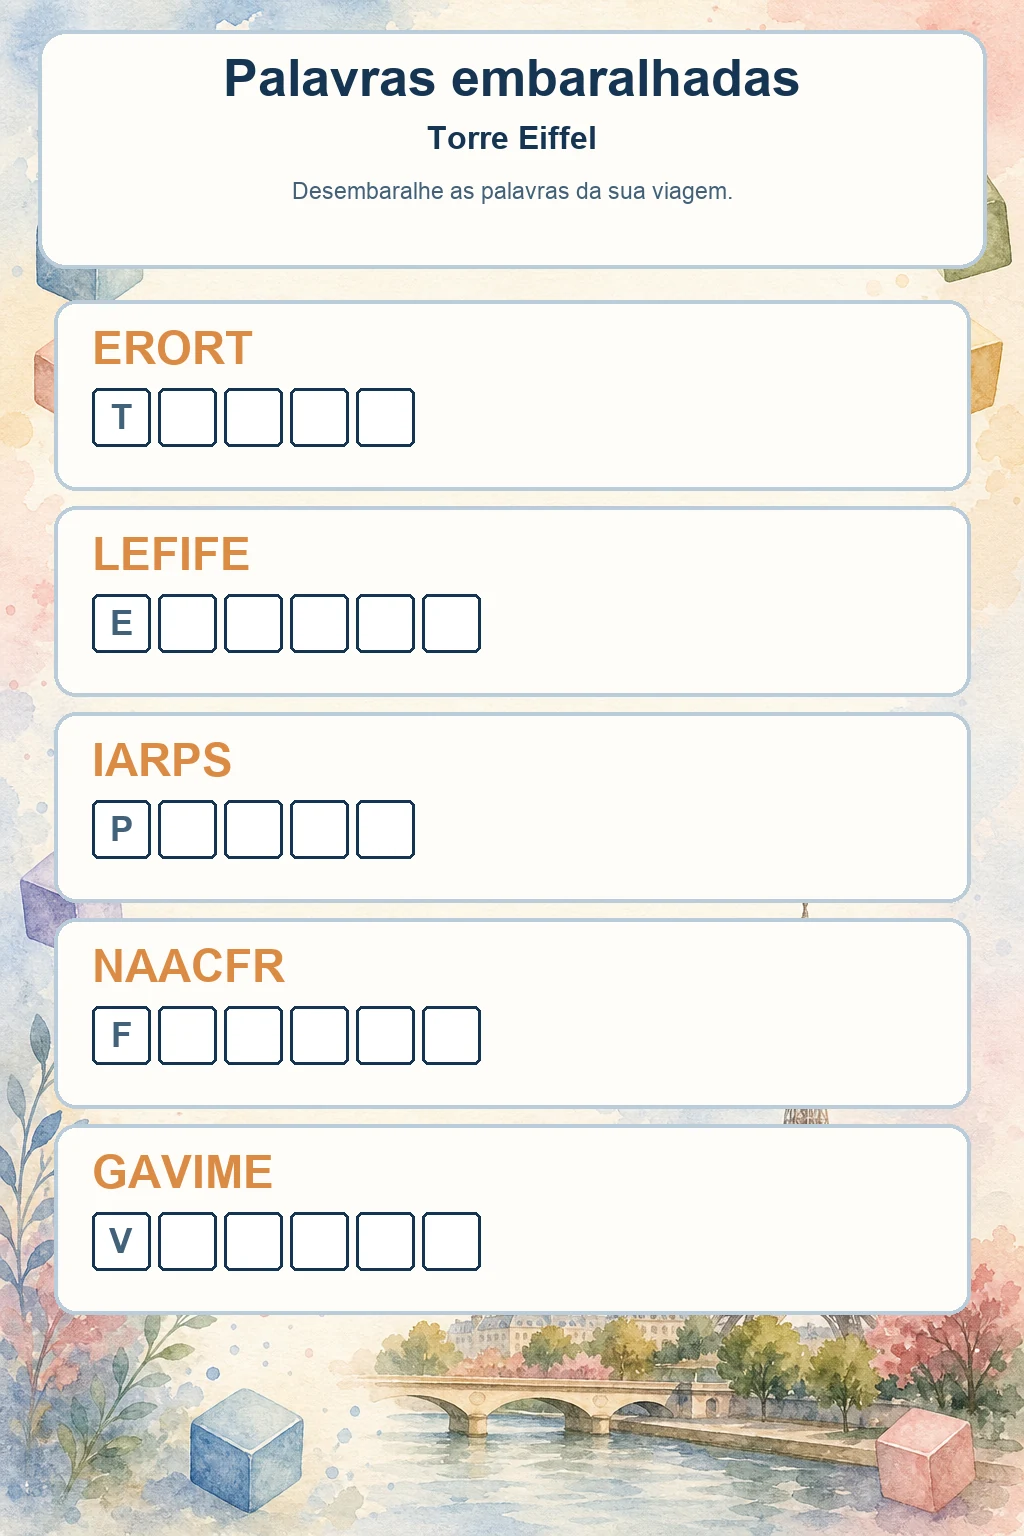
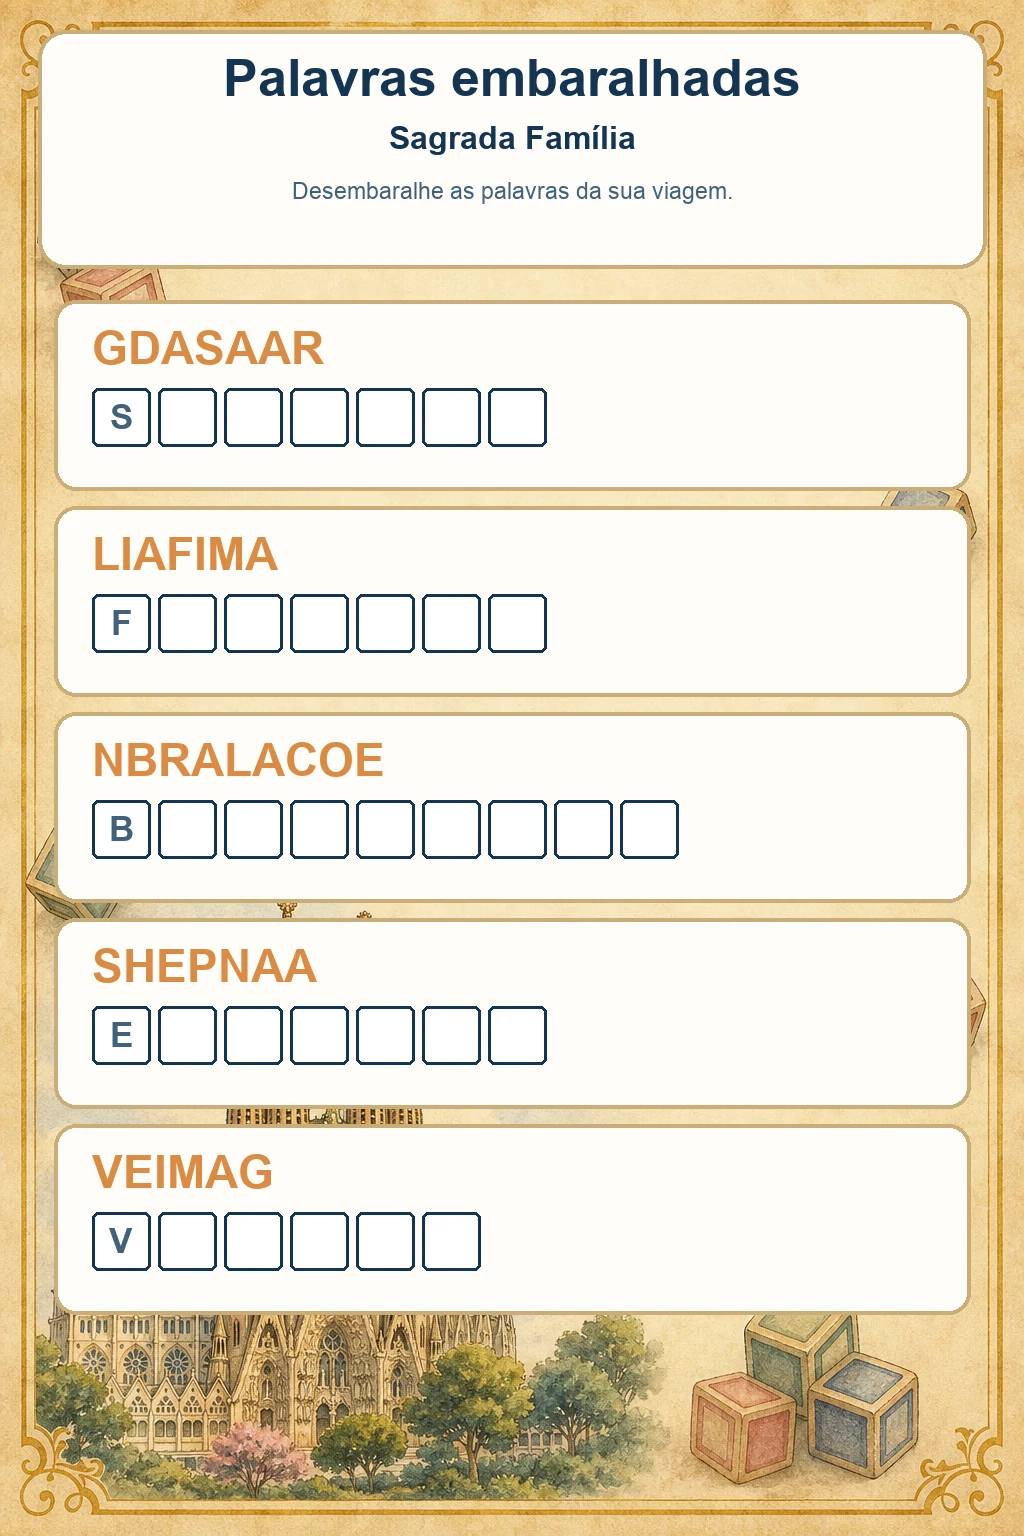
Give every page one house style and eighteen different landmarks
Every card showed the Eiffel Tower. Opening eighteen previews and seeing
one place is the opposite of what the catalogue needs to say, which is
that each page adapts to the stop it is printed for. The catalogue now
runs from the Colosseum to Machu Picchu, the Alhambra, Neuschwanstein,
Golden Gate, Taj Mahal, Mount Fuji, the Great Wall, Amsterdam and Senso-ji
— eighteen landmarks across fourteen countries.

They also share one look now, taken from the printed guide that inspired
the product: aged cream parchment, an ornate golden-ochre border with
corner scrollwork, a faint postmark and a dashed flight path, and vintage
storybook watercolour with ink linework. The panels followed, trading
blue-grey rules for ochre ones. Before this, each activity carried its own
invented background and the book read as a collage.

Spot the difference gets the same palette without the frame. Its page
crops the art into two panels, so the border was thrown away anyway — and
the ornament was drowning the edit: four attempts on the framed version
produced one usable difference, then zero, zero, zero. Plain, it converged
on the second try with three.

The word search answer key is a translucent red band instead of a solid
strike, so the letters stay readable underneath — the point of an answer
key is checking a word, which a line through it prevents.

Two defects surfaced while reviewing the new art. Multi-word place names
reached the puzzles glued together, so a child was asked to find
[…]

diff --git a/frontend_atual/apps/web/src/utils/landmark-activities.test.js b/frontend_atual/apps/web/src/utils/landmark-activities.test.js
@@ -153,3 +153,27 @@ test('every activity offers a longer description for the expanded view', () => {
     assert.ok(activity.about.length > activity.description.length, activity.type);
   }
 });
+
+test('the catalogue shows many landmarks, not the same one eighteen times', () => {
+  // Abrir dezoito cards e ver a mesma Torre Eiffel não mostra que a página se
+  // adapta a cada parada — mostra o contrário.
+  const sources = LANDMARK_ACTIVITY_OPTIONS.flatMap((activity) =>
+    activityGallery(activity).map((item) => item.src),
+  );
+
+  assert.equal(new Set(sources).size, sources.length);
+  assert.ok(sources.every((src) => src.startsWith('/activity-examples/')));
+  assert.ok(sources.every((src) => src.endsWith('.webp')));
+});
+
+test('spot the difference shows both scenes whole, not only the composed page', () => {
+  const activity = LANDMARK_ACTIVITY_OPTIONS.find(
+    (option) => option.type === 'spot_the_difference',
+  );
+  const gallery = activityGallery(activity);
+
+  // Comparar dois desenhos exige ver os dois; a página montada os reduz.
+  assert.equal(gallery.length, 3);
+  assert.match(gallery[1].src, /scene-1/);
+  assert.match(gallery[2].src, /scene-2/);
+});

diff --git a/frontend_atual/apps/web/src/utils/landmark-activities.js b/frontend_atual/apps/web/src/utils/landmark-activities.js
@@ -169,6 +169,23 @@ export const LANDMARK_ACTIVITY_OPTIONS = [
   },
   {
     type: 'spot_the_difference',
+    gallery: [
+      {
+        src: '/activity-examples/spot-the-difference-real.webp',
+        label: 'A página',
+        caption: 'A folha como a criança recebe, com a lista para marcar.',
+      },
+      {
+        src: '/activity-examples/spot-the-difference-scene-1.webp',
+        label: 'Cena 1',
+        caption: 'O primeiro desenho inteiro, do jeito que sai impresso.',
+      },
+      {
+        src: '/activity-examples/spot-the-difference-scene-2.webp',
+        label: 'Cena 2',
+        caption: 'O segundo desenho inteiro: as diferenças estão aqui.',
+      },
+    ],
     about:
       'Dois desenhos do mesmo lugar com pequenas diferenças. Elas são conferidas uma a uma antes da impressão, e a página só diz o número que realmente existe.',
     category: 'puzzle',

diff --git a/src/minerva_travel/page_generation.py b/src/minerva_travel/page_generation.py
@@ -1772,6 +1772,32 @@ circle, marker or caption.
 """.strip()
 
 
+# Identidade visual única do caderno, tirada do guia impresso que serve de
+# referência do produto. Sem isto cada atividade saía com um fundo próprio e o
+# caderno parecia uma colagem de fontes diferentes.
+_HOUSE_STYLE = (
+    "HOUSE STYLE — every page of this book shares one look. Warm aged cream "
+    "parchment background with a subtle paper grain, edges slightly darker than the centre. "
+    "An ornate double-rule border frame in soft golden ochre runs just inside the page edge, "
+    "with small decorative scrollwork at each corner. Near the top edge place a faint circular "
+    "vintage travel postmark, a small navy-blue airplane and a fine dashed flight-path curve. "
+    "Any illustration is vintage children's storybook watercolour with fine ink linework, warm "
+    "and soft, softly blended into the parchment with no hard photographic edges and no white "
+    "box around it. Palette: aged cream, golden ochre, muted navy blue, soft sage and dusty "
+    "rose. No neon, no flat vector shapes, no modern UI look, no drop shadows."
+)
+
+# O "ache os erros" recorta a arte em dois painéis, então a moldura é jogada
+# fora de qualquer jeito — e o excesso de ornamento fazia o editor devolver a
+# cena quase intacta, sem diferenças achaveis. Mesma paleta e mesmo traço,
+# sem moldura.
+_HOUSE_STYLE_PLAIN = (
+    "HOUSE STYLE — vintage children's storybook watercolour with fine ink linework, warm and "
+    "soft, on a calm pale sky-and-parchment background. Palette: aged cream, golden ochre, "
+    "muted navy blue, soft sage and dusty rose. No border frame, no postmark, no ornament, no "
+    "paper grain overlay. No neon, no flat vector shapes, no modern UI look, no drop shadows."
+)
+
 _WRITING_ARTWORK_CONTRACT = (
     "Create a decorative border-only illustration for a writing page: {motif}, arranged around "
     "the outer edges as a calm watercolor frame. Keep the entire central 80 percent pale, plain "
@@ -1826,9 +1852,11 @@ def activity_artwork_prompt(
         # As páginas de escrever recebem painéis opacos por cima: a arte só
         # aparece como moldura, então detalhe no centro seria desperdiçado.
         "spot_the_difference": (
-            "Create one wide, cheerful watercolor scene of the landmark with a handful of large, "
-            "clearly separated elements — a bird, a balloon, a bench, a flag, a tree, a cloud — "
-            "spread around it on a calm background. Keep the composition simple and uncluttered."
+            "Create one wide, cheerful scene of the landmark carrying EXACTLY six large, "
+            "clearly separated stand-alone objects around it — for example a bird, a hot-air "
+            "balloon, a bench, a flag, a lone tree and a boat. Each object must be big, solid "
+            "and sit on empty background with nothing overlapping it, so it could be removed "
+            "without disturbing the rest. Keep everything else plain and uncluttered."
         ),
         "language_survival": (
             "Create a decorative phrasebook background: a small recognizable watercolor landmark "
@@ -1907,6 +1935,7 @@ def activity_artwork_prompt(
     return f"""
 Create only the visual artwork layer for a premium vertical printable children's travel activity.
 Activity: {activity_type}. Landmark: {landmark_name}. Location: {location}.
+{_HOUSE_STYLE_PLAIN if activity_type == "spot_the_difference" else _HOUSE_STYLE}
 Age-complexity band: {age_complexity}.
 {source_contract}{revision_contract}
 
@@ -2439,8 +2468,13 @@ def _word_search_vocabulary(
         if not isinstance(raw, list) or not all(isinstance(item, str) for item in raw):
             raise PageGenerationError("As palavras do caça-palavras são inválidas.")
         return raw
-    place_tokens = [token for token in re.split(r"[^\wÀ-ÿ]+", name) if len(token) >= 3]
-    return [city, *place_tokens, country, "viagem", "aventura"]
+    # Idem: cidade e país entram por palavra, não colados.
+    tokens = [
+        token
+        for token in re.split(r"[^\wÀ-ÿ]+", f"{name} {city} {country}")
+        if len(token) >= 3
+    ]
+    return [*tokens, "viagem", "aventura"]
 
 
 def _bounded_mapping_text(

diff --git a/src/minerva_travel/activity_page_compositor.py b/src/minerva_travel/activity_page_compositor.py
@@ -35,11 +35,16 @@ INK = "#153451"
 MUTED_INK = "#42617a"
 ACCENT = "#db8b45"
 PAPER = "#fffdf8"
-PANEL_OUTLINE = "#b9ccda"
+# Ocre suave em vez do azul-acinzentado: as réguas e molduras passam a ser as
+# mesmas do guia impresso que serve de referência do produto.
+PANEL_OUTLINE = "#c9ad78"
 # Vermelho do gabarito: nunca aparece na página que a criança recebe, só na
 # versão resolvida que mostramos como exemplo no seletor.
 SOLUTION_INK = "#c0392b"
 SOLUTION_WIDTH = 7
+# Faixa translúcida em vez de risco cheio: riscar por cima apagava as letras
+# justamente na hora de conferir se a palavra está certa.
+SOLUTION_HIGHLIGHT = (192, 57, 43, 76)
 COLORING_TITLE = "Atividade para colorir"
 COLORING_INSTRUCTION_TEMPLATE = "Agora é a vez de colorir {landmark_name} do seu jeito."
 FAMILY_COLORING_TITLE = "Família de férias para colorir"
@@ -362,25 +367,17 @@ def compose_word_search_page(
         for column_index, letter in enumerate(row):
             x0 = left + column_index * cell
             y0 = top + row_index * cell
-            draw.rectangle((x0, y0, x0 + cell, y0 + cell), outline="#7898af", width=2)
+            draw.rectangle((x0, y0, x0 + cell, y0 + cell), outline=PANEL_OUTLINE, width=2)
             bbox = draw.textbbox((0, 0), letter, font=letter_font)
             x = x0 + (cell - (bbox[2] - bbox[0])) / 2
             y = y0 + (cell - (bbox[3] - bbox[1])) / 2 - bbox[1]
             draw.text((x, y), letter, font=letter_font, fill=INK)
 
     if solution:
-        placements = locate_words(list(normalized_grid), list(normalized_words))
-        for row, column, row_end, column_end in placements:
-            draw.line(
-                (
-                    left + column * cell + cell // 2,
-                    top + row * cell + cell // 2,
-                    left + column_end * cell + cell // 2,
-                    top + row_end * cell + cell // 2,
-                ),
-                fill=SOLUTION_INK,
-                width=SOLUTION_WIDTH,
-            )
+        image = _highlight_found_words(
+            image, normalized_grid, normalized_words, left=left, top=top, cell=cell
+        )
+        draw = ImageDraw.Draw(image)
 
     list_top = top + grid_width + 52
     list_bottom = min(1450, list_top + 260)
@@ -399,6 +396,34 @@ def compose_word_search_page(
             fill=INK,
         )
     return _atomic_save(image, output_path)
+
+
+def _highlight_found_words(
+    image: Image.Image,
+    grid: Sequence[str],
+    words: Sequence[str],
+    *,
+    left: int,
+    top: int,
+    cell: int,
+) -> Image.Image:
+    """Band each found word in translucent red, letters still readable through it."""
+
+    overlay = Image.new("RGBA", image.size, (0, 0, 0, 0))
+    painter = ImageDraw.Draw(overlay)
+    inset = max(3, cell // 10)
+    for row, column, row_end, column_end in locate_words(list(grid), list(words)):
+        painter.rounded_rectangle(
+            (
+                left + column * cell + inset,
+                top + row * cell + inset,
+                left + (column_end + 1) * cell - inset,
+                top + (row_end + 1) * cell - inset,
+            ),
+            radius=cell // 2,
+            fill=SOLUTION_HIGHLIGHT,
+        )
+    return Image.alpha_composite(image.convert("RGBA"), overlay).convert("RGB")
 
 
 def compose_drawing_page(
@@ -693,11 +718,14 @@ def compose_postcard_page(
         align="center",
     )
 
-    # Linha de corte: o cartão precisa sair da folha para ser postado.
+    # Linha de corte: o cartão precisa sair da folha para ser postado. Ela cai
+    # em cima da ilustração, então ganha uma tarja clara própria — sem isso a
+    # instrução some contra a aquarela e ninguém sabe onde cortar.
     top, bottom = POSTCARD_REGION
+    draw.rectangle((38, top - 56, 986, top - 8), fill=PAPER)
     for x in range(60, 964, 22):
-        draw.line((x, top - 18, x + 12, top - 18), fill=MUTED_INK, width=2)
-    draw.text((60, top - 46), "Recorte aqui", font=_font(19), fill=MUTED_INK)
+        draw.line((x, top - 18, x + 12, top - 18), fill=MUTED_INK, width=3)
+    draw.text((60, top - 50), "Recorte aqui", font=_font(19, bold=True), fill=MUTED_INK)
 
     _panel(draw, (54, top, 970, bottom), radius=18)
     middle = 512

diff --git a/tests/test_writing_activity_pages.py b/tests/test_writing_activity_pages.py
@@ -81,3 +81,41 @@ def test_writing_page_keeps_white_paper_even_over_dark_artwork(tmp_path: Path):
     with Image.open(output) as page:
         band = page.convert("RGB").crop((120, 400, 900, 420))
     assert all(minimum >= 248 for minimum, _maximum in band.getextrema())
+
+
+def test_every_activity_artwork_asks_for_the_same_house_style():
+    """Uma identidade só para o caderno inteiro.
+
+    Sem contrato compartilhado, cada atividade saía com fundo próprio e o
+    guia parecia uma colagem de fontes diferentes.
+    """
+
+    from minerva_travel.models import OPTIONAL_LANDMARK_ACTIVITY_TYPES
+    from minerva_travel.page_generation import activity_artwork_prompt
+
+    visual_types = [
+        activity_type
+        for activity_type in OPTIONAL_LANDMARK_ACTIVITY_TYPES
+        if activity_type not in {"family_coloring", "investigator"}
+    ]
+    for activity_type in visual_types:
+        prompt = activity_artwork_prompt(
+            activity_type=activity_type,
+            landmark_name="Coliseu",
+            city="Roma",
+            country="Itália",
+            age_complexity="early_reader",
+            has_landmark_reference=False,
+            has_revision_reference=False,
+        )
+        assert "HOUSE STYLE" in prompt, activity_type
+        # Paleta e traço são o que faz o caderno parecer um caderno só.
+        assert "vintage children's storybook watercolour" in prompt, activity_type
+        assert "aged cream, golden ochre, muted navy blue" in prompt, activity_type
+        # O texto exato continua sendo composto por código, nunca desenhado.
+        assert "text-free" in prompt.lower(), activity_type
+
+        # A moldura ornamentada é a variante padrão; o "ache os erros" recorta
+        # a arte em painéis e a moldura seria descartada.
+        framed = "ornate double-rule border frame" in prompt
+        assert framed is (activity_type != "spot_the_difference"), activity_type

diff --git a/src/minerva_travel/app.py b/src/minerva_travel/app.py
@@ -2214,10 +2214,13 @@ WRITING_ACTIVITY_TYPES: frozenset[str] = frozenset(
 def _travel_vocabulary(landmark: LandmarkActivityContext) -> list[str]:
     """Words from this trip that a child can recognise once unscrambled."""
 
+    # Cada nome entra quebrado em palavras: "Reino Unido" inteiro vira
+    # "REINOUNIDO" na grade, que não é palavra nenhuma para uma criança.
     candidates = [
-        *re.findall(r"[A-Za-zÀ-ÿ]{4,}", landmark.name),
-        landmark.city,
-        landmark.country,
+        *re.findall(
+            r"[A-Za-zÀ-ÿ]{3,}",
+            f"{landmark.name} {landmark.city} {landmark.country}",
+        ),
         "VIAGEM",
         "AVENTURA",
     ]
